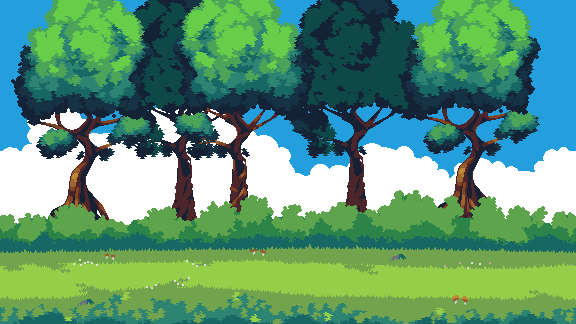
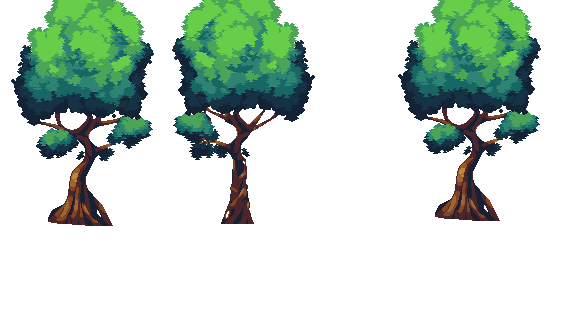
Created Backgrounds and entities

diff --git a/code/menu.py b/code/menu.py
@@ -2,7 +2,7 @@ import pygame.image
 from pygame import Surface, Rect
 from pygame.font import Font
 
-from code.const import C_WHITE, WIN_WIDTH, C_GREEN, MENU_OPTION
+from code.const import C_WHITE, WIN_WIDTH, C_GREEN, MENU_OPTION, C_ORANGE, C_PURPLE
 
 
 class Menu:
@@ -20,23 +20,38 @@ class Menu:
         while True:
 
             self.window.blit(source=self.surf, dest=self.rect)
-            self.menu_text(50, 'Fantastic', C_WHITE, (WIN_WIDTH / 2, 85))
-            self.menu_text(50, 'Adventure', C_WHITE, (WIN_WIDTH / 2, 130))
+            self.menu_text(50, 'Fantastic', C_ORANGE, (WIN_WIDTH / 2, 60))
+            self.menu_text(50, 'Adventure', C_ORANGE, (WIN_WIDTH / 2, 110))
+            self.menu_text(18, 'Criado por: Jéssyca. C. R. Ferreira - RA: 4545764', C_WHITE,
+                           (WIN_WIDTH / 2, 310))
             for i in range(len(MENU_OPTION)):
                 if i == menu_option:
-                    self.menu_text(35, MENU_OPTION[i], C_GREEN, (WIN_WIDTH / 2, 180 + 40*i))
-                   
+                    self.menu_text(30, MENU_OPTION[i], C_GREEN, (WIN_WIDTH / 2, 170 + 40 * i))
+
                 else:
-                    self.menu_text(35, MENU_OPTION[i], C_WHITE, (WIN_WIDTH / 2, 180 + 40*i))
-
-
-            pygame.display.flip()
+                    self.menu_text(30, MENU_OPTION[i], C_WHITE, (WIN_WIDTH / 2, 170 + 40 * i))
 
             # Close Window
             for event in pygame.event.get():
                 if event.type == pygame.QUIT:
                     pygame.quit()
                     quit()
+
+                if event.type == pygame.KEYDOWN:
+                    if event.key == pygame.K_DOWN:
+                        if menu_option < len(MENU_OPTION) - 1:
+                            menu_option += 1
+                        else:
+                            menu_option = 0
+                    if event.key == pygame.K_UP:
+                        if menu_option > 0:
+                            menu_option -= 1
+                        else:
+                            menu_option = len(MENU_OPTION) - 1
+                    if event.key == pygame.K_RETURN:
+                        return MENU_OPTION[menu_option]
+
+            pygame.display.flip()
 
     def menu_text(self, text_size: int, text: str, text_color: tuple, text_center_pos: tuple):
         text_font: Font = pygame.font.SysFont(name="Comic Sans", size=text_size)

diff --git a/code/entityFactory.py b/code/entityFactory.py
@@ -4,17 +4,13 @@ from code.background import Background
 from code.const import WIN_WIDTH
 
 
-@staticmethod
 class EntityFactory:
-    def get_entity(self, entity_type, entity_name: str, position=(0, 0)):
+    @staticmethod
+    def get_entity(entity_name: str, position=(0,0)):
         match entity_name:
-            case 'Level1Bg':
-                    list_bg = []
-                    for i in range(7):
-                        list_bg.append(Background(f'Level1Bg{i}', (0, 0)))
-                        list_bg.append(Background(f'Level1Bg{i}', (WIN_WIDTH, 0)))
-                    return list_bg
-
-
-
-pass
+            case 'Bg0':
+                list_bg = []
+                for i in range(5):
+                    list_bg.append(Background(f'Bg{i}', (0, 0)))
+                    list_bg.append(Background(f'Bg{i}', (WIN_WIDTH, 0)))
+                return list_bg

diff --git a/code/entity.py b/code/entity.py
@@ -1,20 +1,20 @@
 #!/usr/bin/python
 # -*- coding: utf-8 -*-
+from abc import ABC, abstractmethod
+
 import pygame
 
-
-class Entity:
+class Entity(ABC):
     def __init__(self, name: str, position: tuple):
         self.name = name
-        self.surf = pygame.image.load(
-            './asset/' + name + '.png').convert_alpha()
-
+        self.surf = pygame.image.load('./assets/' + name + '.png')
         self.rect = self.surf.get_rect(left=position[0], top=position[1])
-        # self.speed = 0
+        self.speed = 0
         # self.health = ENTITY_HEALTH[self.name]
         # self.damage = ENTITY_DAMAGE[self.name]
         # self.score = ENTITY_SCORE[self.name]
-        # self.last_dmg = 'None'
+        self.last_dmg = 'None'
 
+    @abstractmethod
     def move(self, ):
         pass

diff --git a/code/level.py b/code/level.py
@@ -1,11 +1,25 @@
 #!/usr/bin/python
 # -*- coding: utf-8 -*-
+import pygame
+from pygame import Surface
+
+from code import entityFactory
+from code.entity import Entity
+from code.entityFactory import EntityFactory
 
 
 class Level:
-    def __init__(self, window):
-        pass
+    def __init__(self, window: Surface, name: str, menu_option: tuple):
+        self.window = window
+        self.name: name
+        self.entity_list: list[Entity] = []
+        self.entity_list.extend(EntityFactory.get_entity('Bg0'))
 
-    def run(self, ):
-        pass
+    def run(self):
+        while True:
+            for ent in self.entity_list:
+                self.window.blit(source=ent.surf, dest=ent.rect)
+                ent.move()
+            pygame.display.flip()
+
 

diff --git a/code/game.py b/code/game.py
@@ -1,8 +1,11 @@
 #!/usr/bin/python
 # -*- coding: utf-8 -*-
+import sys
+
 import pygame
 
-from code.const import WIN_WIDTH, WIN_HEIGHT
+from code.const import WIN_WIDTH, WIN_HEIGHT, MENU_OPTION
+from code.level import Level
 from code.menu import Menu
 
 
@@ -15,7 +18,15 @@ class Game:
 
         while True:
             menu = Menu(self.window)
+            menu_return = menu.run()
 
-            menu.run()
+            if menu_return == MENU_OPTION[0]:
+                level = Level(self.window, 'Level1', menu_return)
+                level_return = level.run()
 
+            elif menu_return == MENU_OPTION[2]:
+                pygame.quit()
+                sys.exit()
+            else:
+                pass
 

diff --git a/code/const.py b/code/const.py
@@ -1,7 +1,28 @@
 # C
 C_WHITE = (255,255,255)
-C_GREEN = (157,255,0)
-C_PINK = (255,174,201)
+C_GREEN = (0,176,0)
+C_PURPLE = (128, 0, 128)
+C_YELLOW = (255,255,128)
+C_ORANGE = (255, 128, 0)
+
+
+# E
+ENTITY_SPEED = {
+    'Bg0': 0,
+    'Bg1': 1,
+    'Bg2': 2,
+    'Bg3': 3,
+    'Bg4': 4,
+    'Player1': 3,
+    'Player1Shot': 1,
+    'Player2': 3,
+    'Player2Shot': 3,
+    'Enemy1': 1,
+    'Enemy1Shot': 3,
+    'Enemy2': 1,
+    'Enemy2Shot': 3,
+}
+
 
 # M
 

diff --git a/code/background.py b/code/background.py
@@ -1,6 +1,6 @@
 #!/usr/bin/python
 # -*- coding: utf-8 -*-
-from code.const import WIN_WIDTH
+from code.const import WIN_WIDTH, ENTITY_SPEED
 from code.entity import Entity
 
 
@@ -9,6 +9,6 @@ class Background(Entity):
         super().__init__(name, position)
 
     def move(self, ):
-        # self.rect.centerx -= ENTITY_SPEED[self.name]
+        self.rect.centerx -= ENTITY_SPEED[self.name]
         if self.rect.right <= 0:
             self.rect.left = WIN_WIDTH
